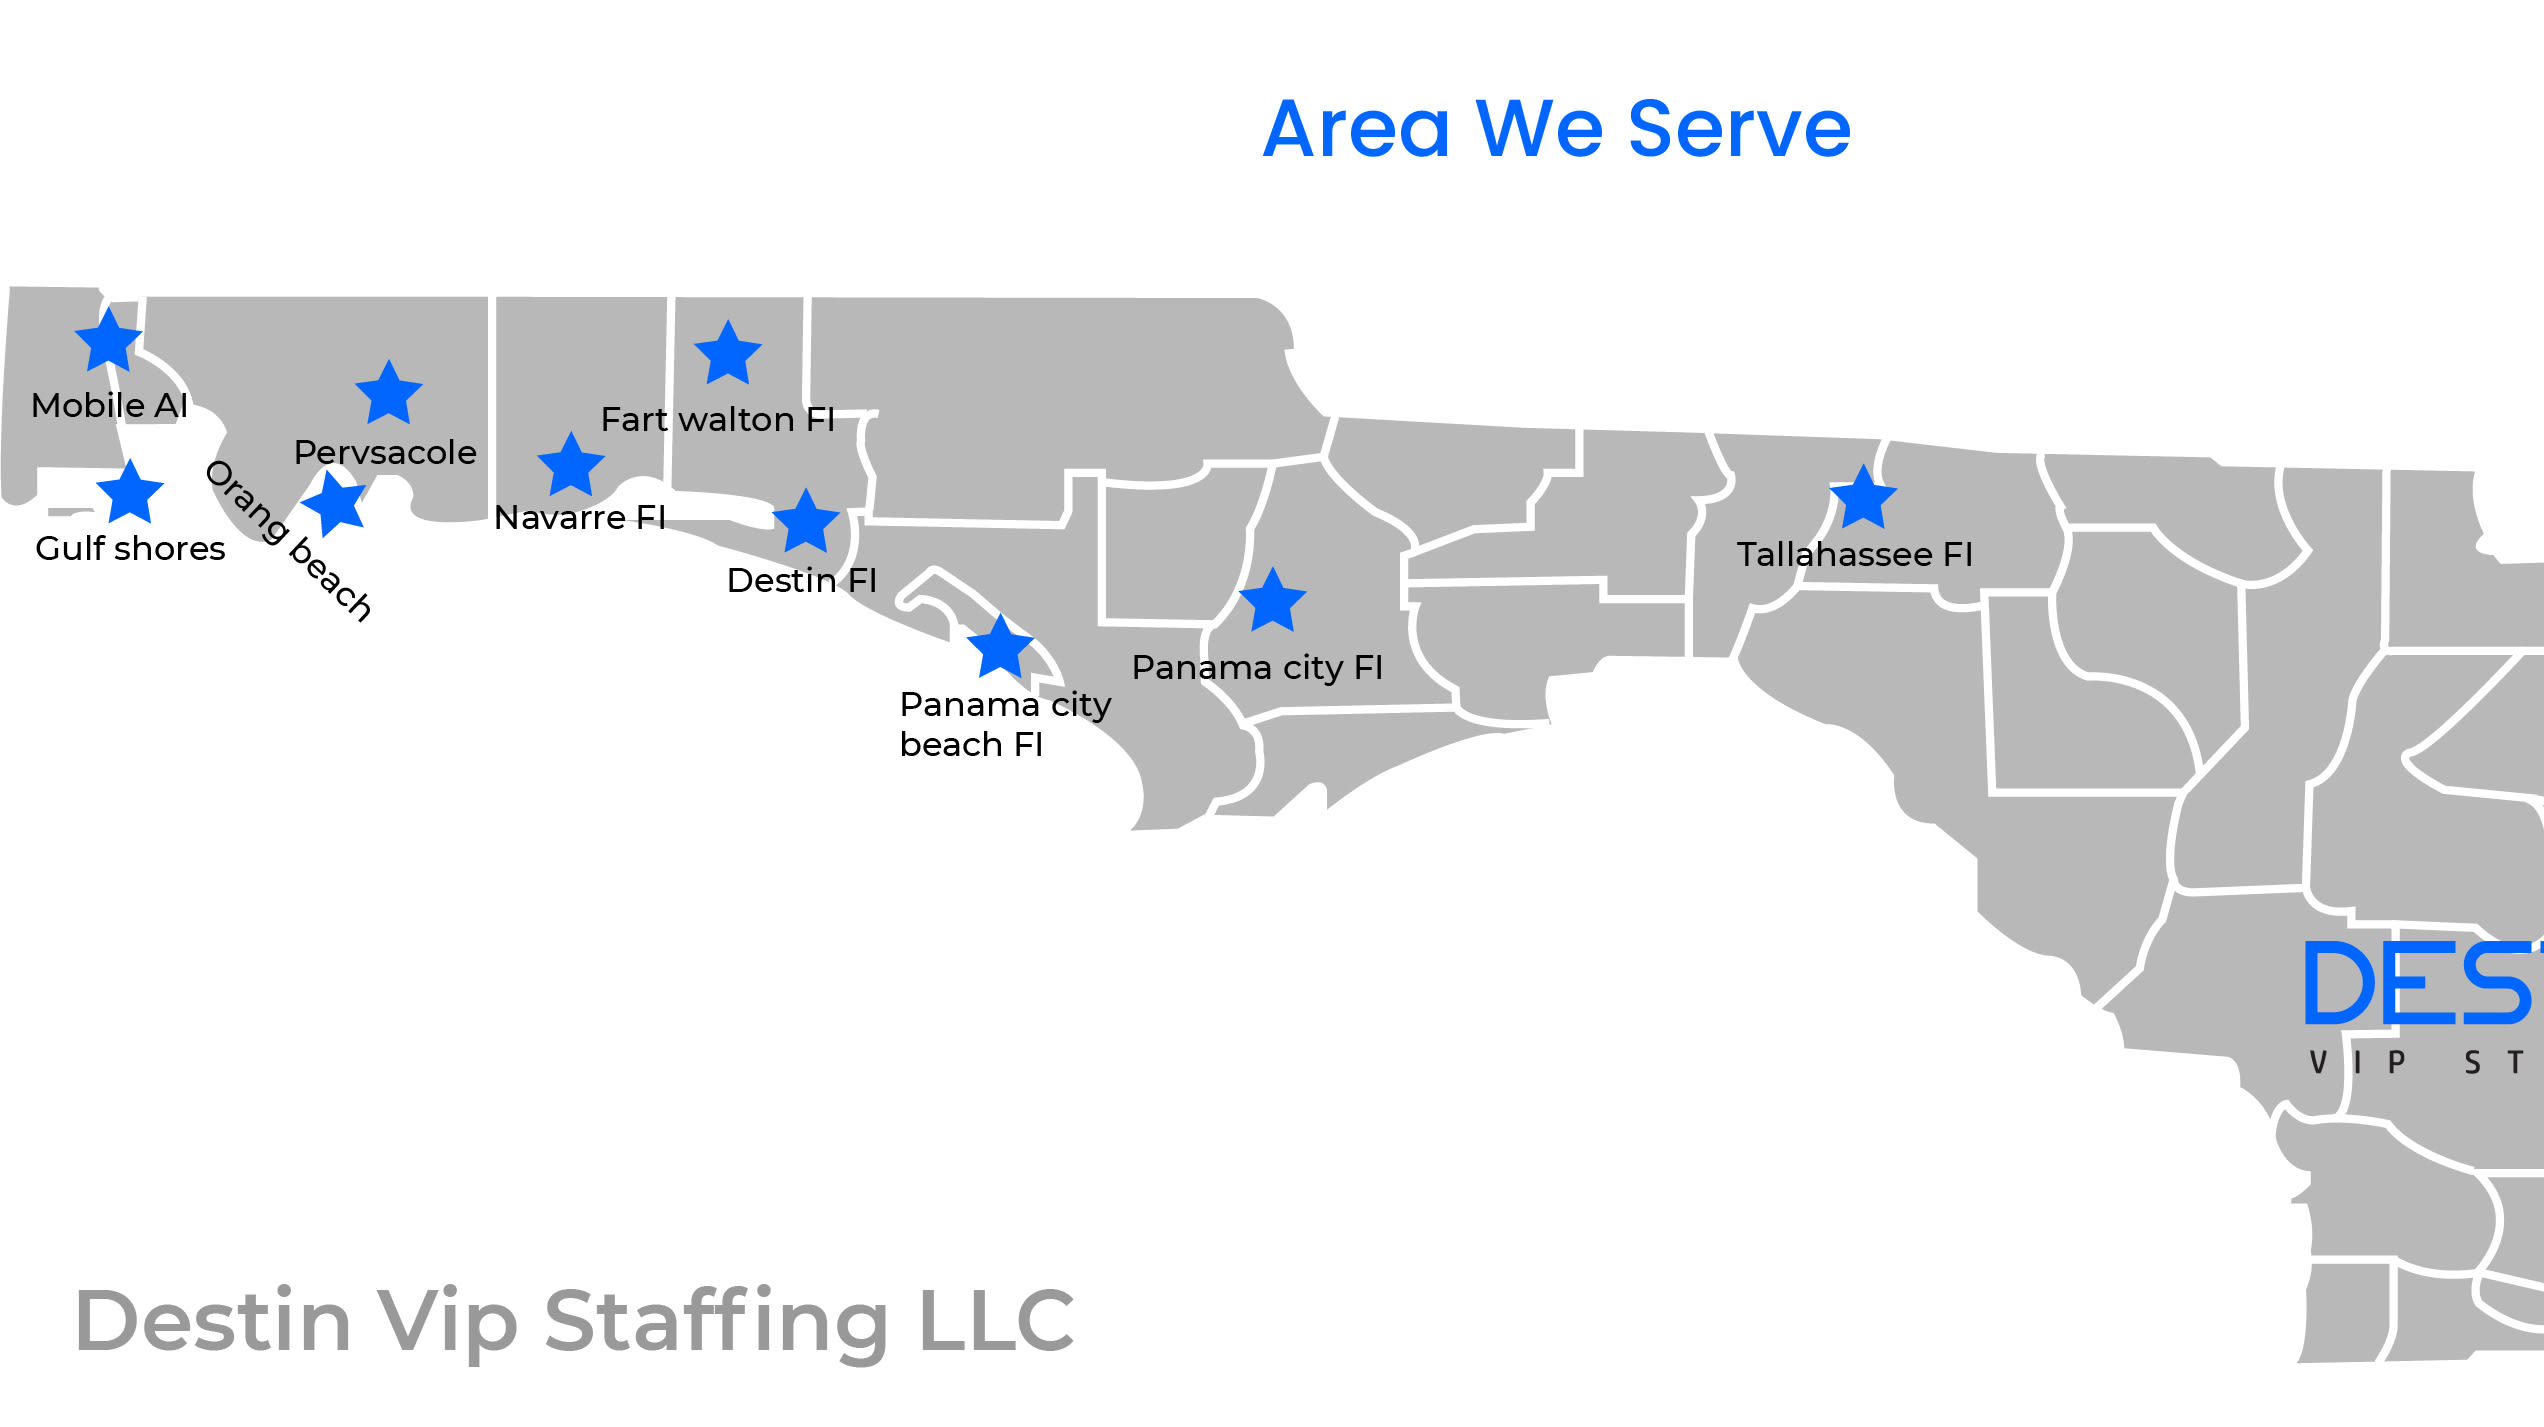
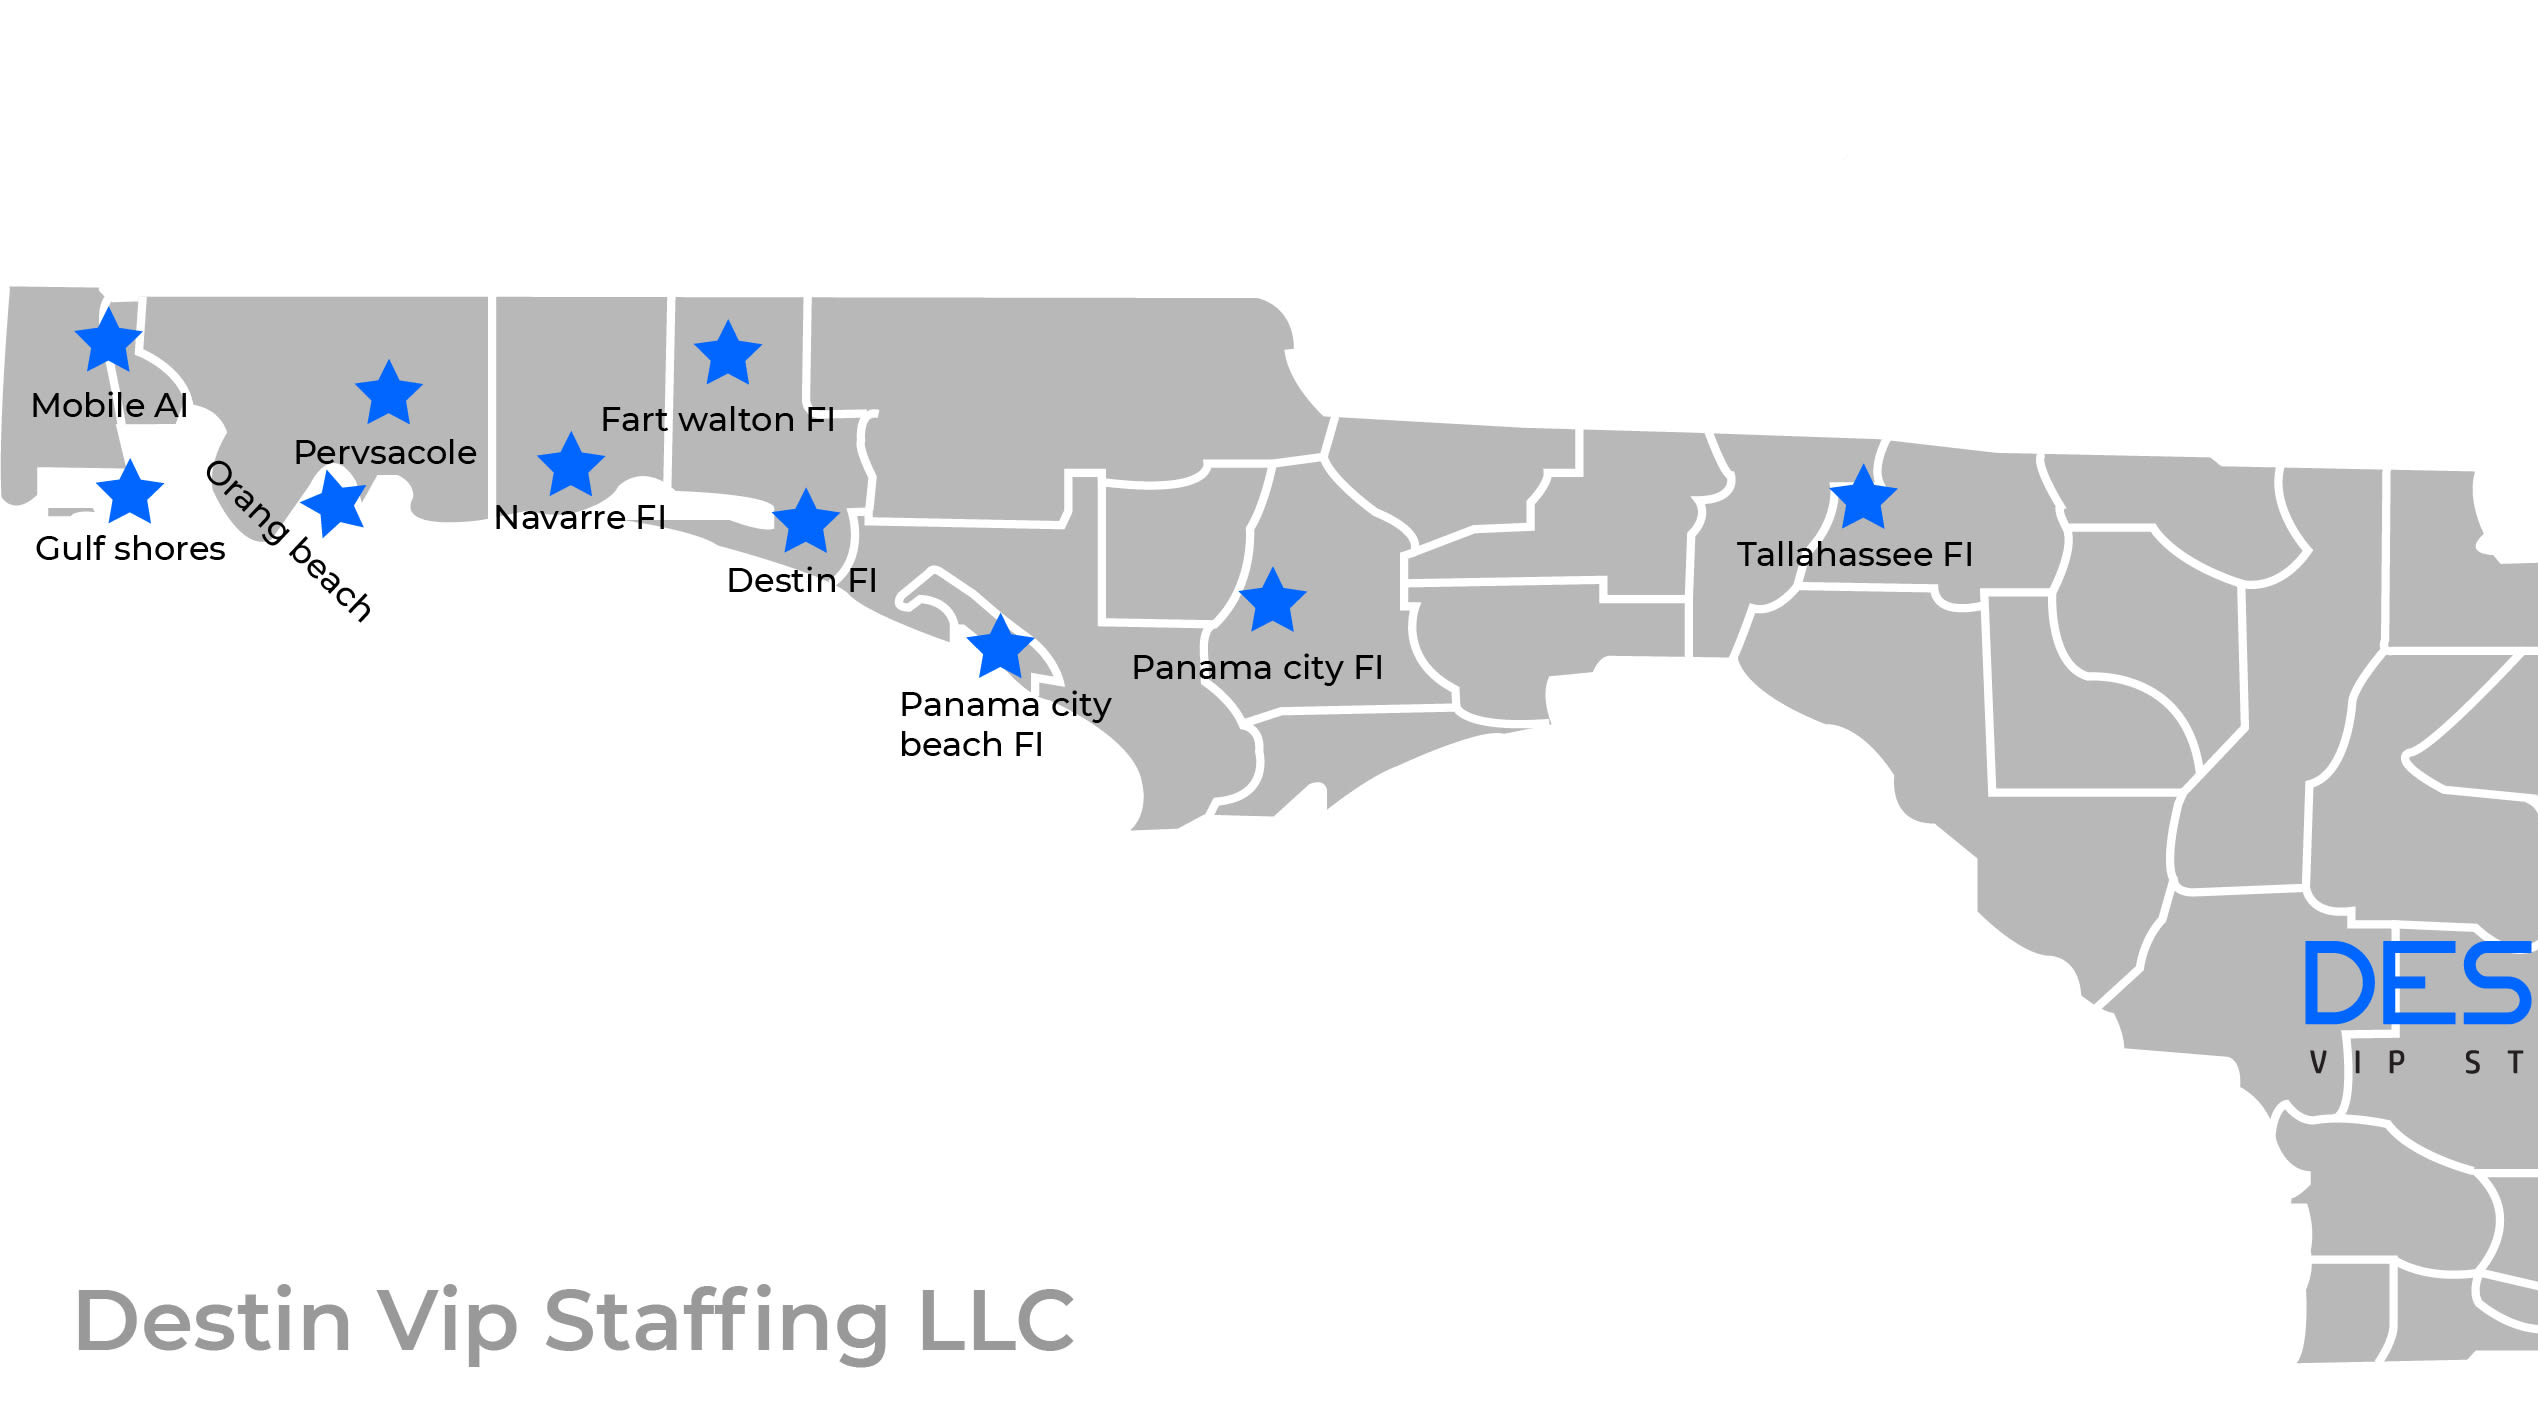
new changes are done

diff --git a/index.html b/index.html
@@ -562,6 +562,8 @@
 </section><!-- end blog post section -->
 
 <section>
+   
+    <h3>ARE <span>WE </span>SERVE<br/><img src="images/dividerDark.png" class="divider"/>
   
         <img src="images/media/serveares.png" style="width:100%"/>
    
